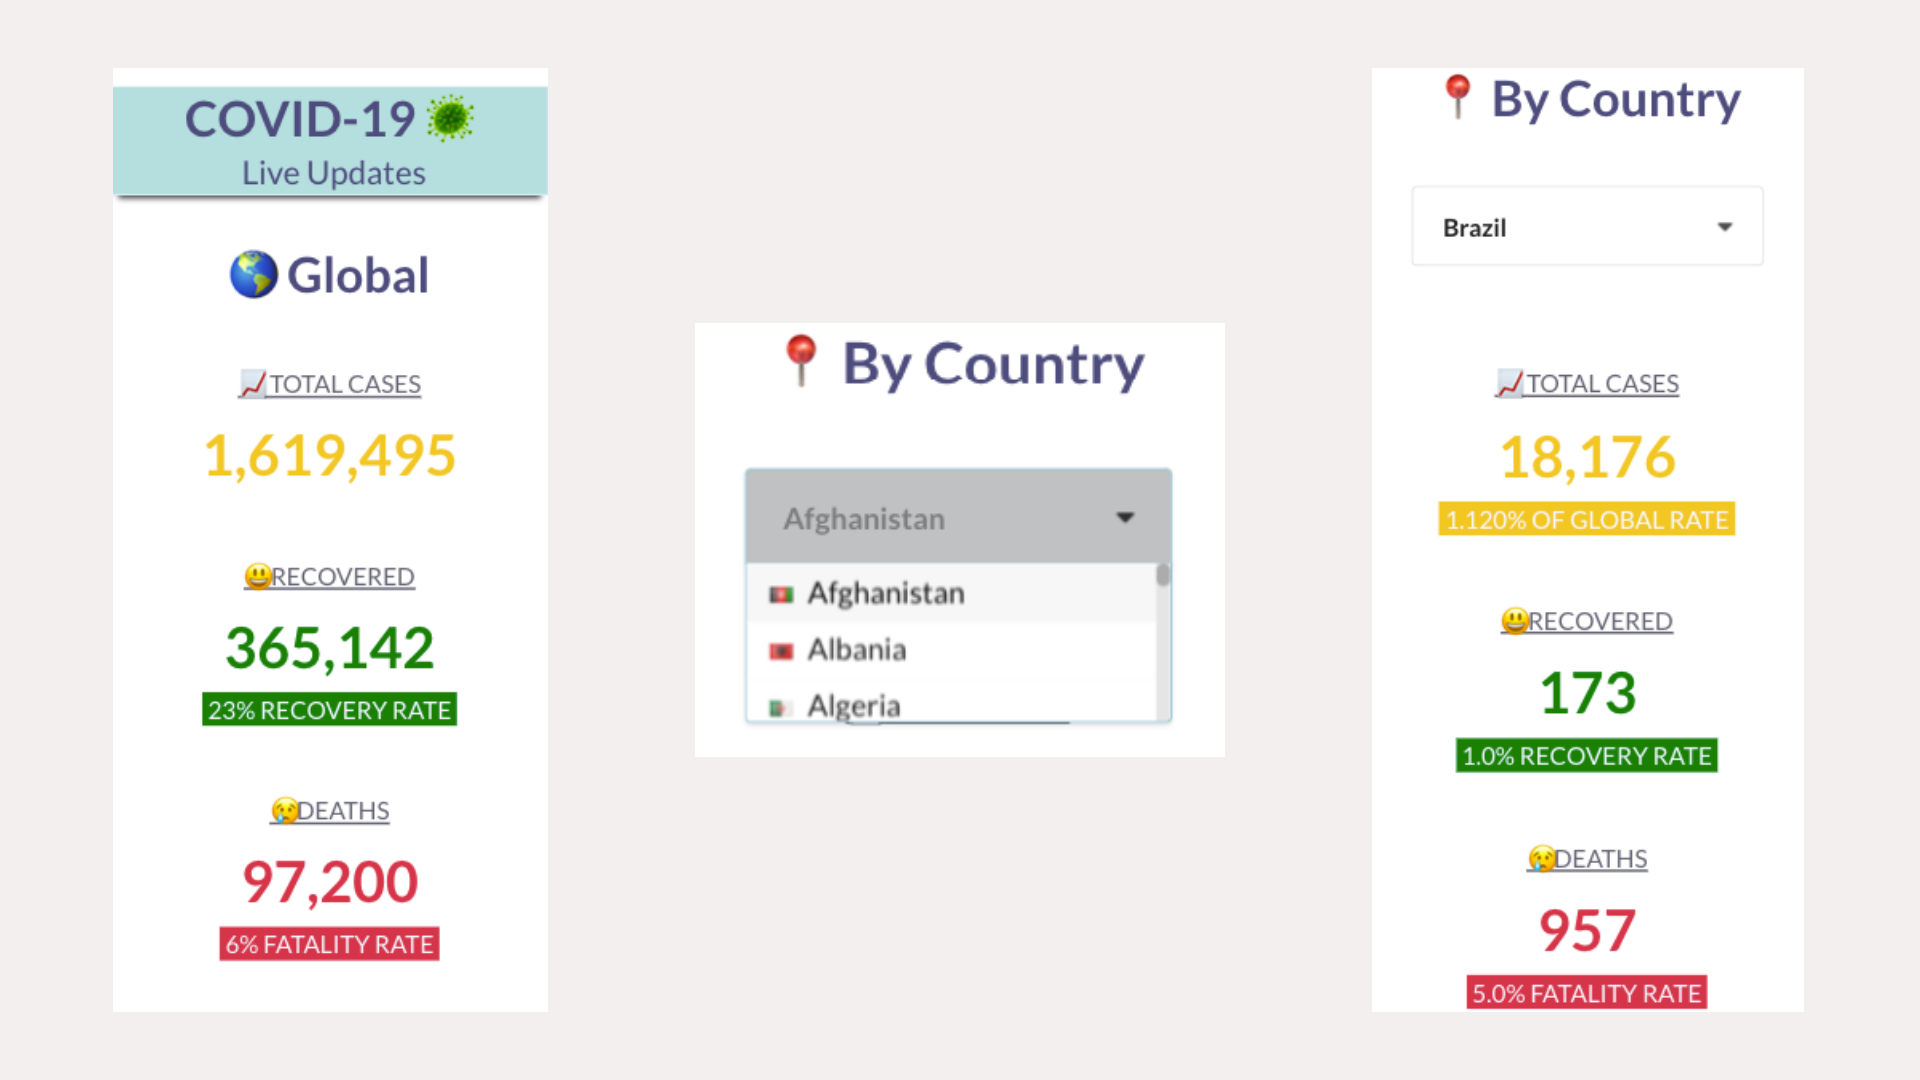
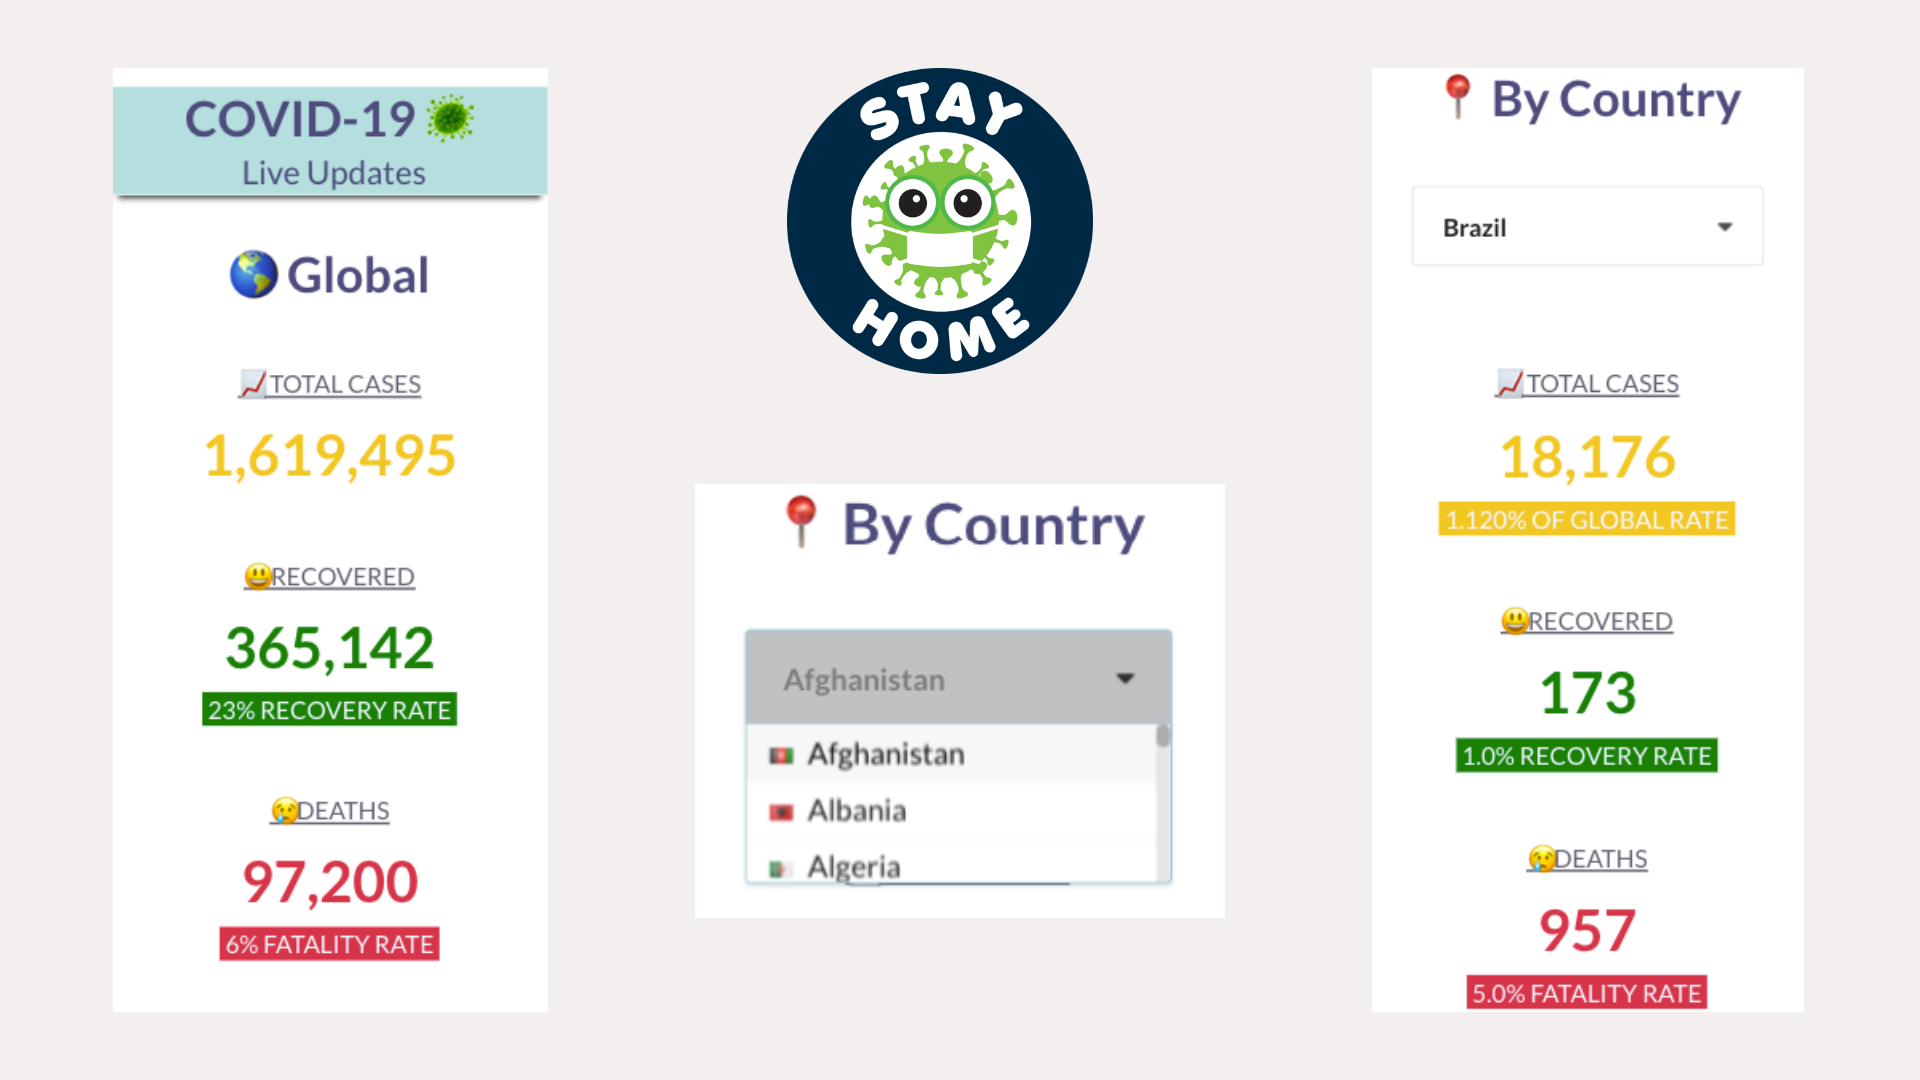
adding gitignore

Changed region(s): [[0.375, 0.4278, 0.625, 0.7639], [0.4062, 0.0611, 0.5938, 0.3667], [0.375, 0.7944, 0.5625, 0.825]]

diff --git a/src/Components/Homepage/Homepage.js b/src/Components/Homepage/Homepage.js
@@ -46,8 +46,7 @@ function Homepage() {
       <>
       <div className="home-container">
     <h1>
-      {" "}
-      COVID-19{" "}
+      COVID-19
       <span role="img" aria-label="virus">
         🦠
       </span>

diff --git a/src/Components/Homepage/homepage.css b/src/Components/Homepage/homepage.css
@@ -3,6 +3,10 @@
   box-shadow: 0px 9px 5px -6px rgba(0,0,0,0.75);
 }
 
+.home-container img {
+  width: 70px;
+}
+
 .home-container h1 {
   font-size: 4rem;
   margin-left: 2vw;
